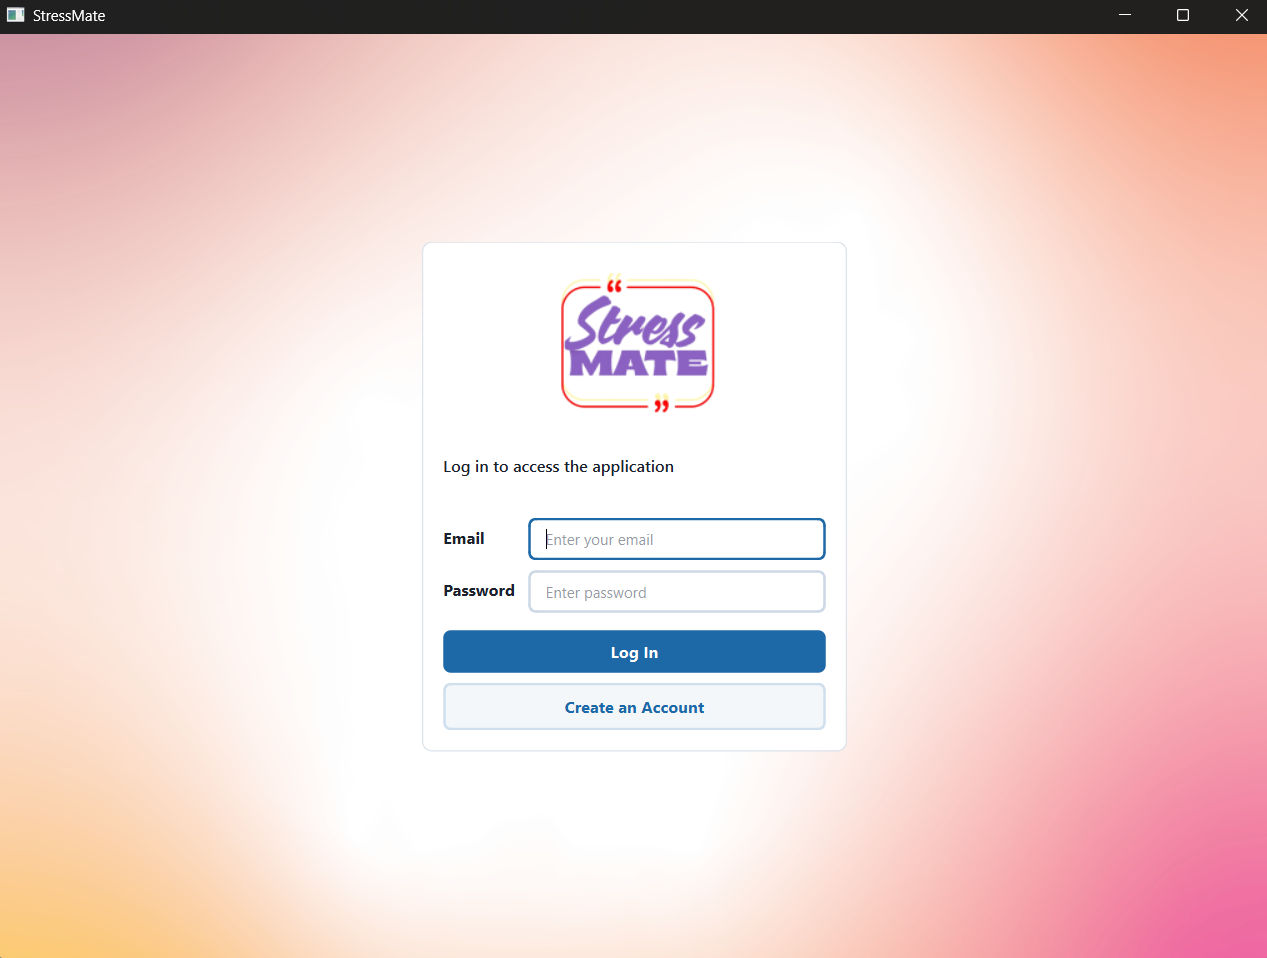
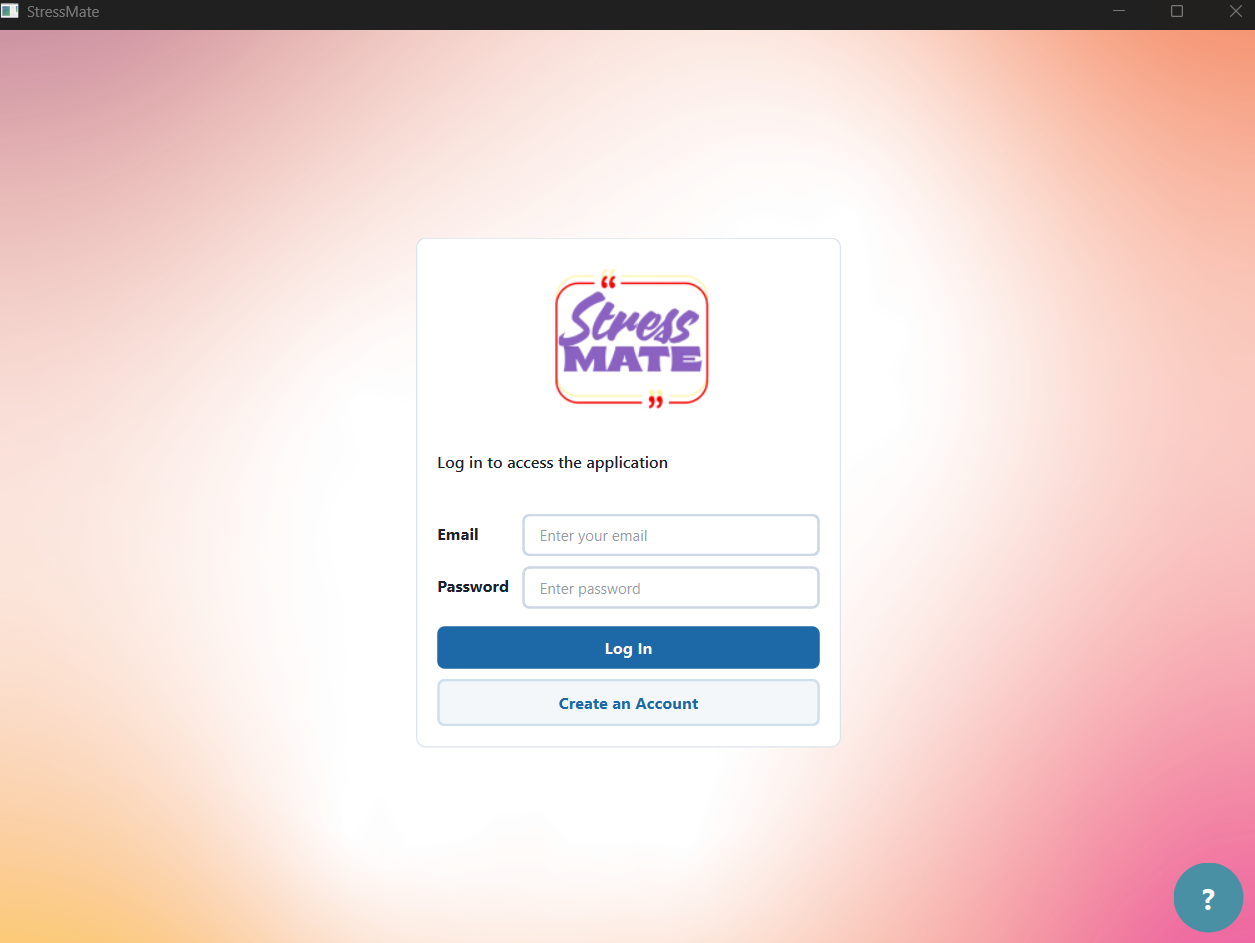
Added FAQ chat box and restored SQL database

diff --git a/README.md b/README.md
@@ -1,89 +1,130 @@
 # StressMate: Stress Tracker
 
-## Project Description
-StressMate is an interactive application designed to help users track their daily stress levels, reflect on their emotions through journaling, and receive actionable coping strategies tailored to their current mental state. 
+## 1. Project Description
+
+StressMate is an interactive application designed to help users track their daily stress levels, reflect on their emotions through journaling, and receive actionable coping strategies tailored to their current mental state.
 
 With the increasing demands of academic and professional life, many individuals experience burnout and anxiety without knowing how to pause or manage it. StressMate provides an organized space to log feelings and offering instant grounding techniques (like the 4-7-8 breathing method or micro-tasks) to intercept extreme stress before it escalates.
 
-## Project Objectives
-* To provide daily stress logging and emotional reflection.
-* To offer actionable advice and micro-tasks dynamically tailored to the user's specific stress tier (Green, Yellow, Orange, Red).
-* To maintain a secure database of user accounts and their emotional history, allowing users to look back and manage their well-being over time.
+## 2. Project Objectives
 
-## Features
-* **Secure User Authentication:** A robust login and registration system featuring strict password validation (minimum length, uppercase, and numerical requirements) and secure SHA-256 password hashing.
-* **Interactive Stress Logging:** Users can categorize their current stress into four color-coded tiers and add personal reflection notes to record their daily mental state.
-* **History Management (CRUD):** Users can seamlessly view, update, and delete their past stress logs in a structured data table.
-* **Coping & Support Resources:** Dedicated informative modules broken down into Physical, Emotional, and Spiritual help, providing specific grounding techniques and actionable advice.
-* **Inspirational Quotes Album:** An interactive image gallery providing users with uplifting quotes and visual encouragement.
+- To provide daily stress logging and emotional reflection.
+- To offer actionable advice and micro-tasks dynamically tailored to the user's specific stress tier (Green, Yellow, Orange, Red).
+- To maintain a secure database of user accounts and their emotional history, allowing users to look back and manage their well-being over time.
+- To answer common questions about stress instantly and point users to real help when they need it.
 
-## Technologies Used
-* **Programming Language:** Python 3
-* **GUI Framework:** PyQt6
-* **Database:** SQLite (via the built-in `sqlite3` module)
-* **Other Important Libraries:**
+## 3. Features
+
+- **Secure User Authentication:** A robust login and registration system featuring strict password validation (minimum length, uppercase, and numerical requirements) and secure SHA-256 password hashing.
+- **Interactive Stress Logging:** Users can categorize their current stress into four color-coded tiers and add personal reflection notes to record their daily mental state.
+- **History Management (CRUD):** Users can seamlessly view, update, and delete their past stress logs in a structured data table.
+- **Coping & Support Resources:** Dedicated informative modules broken down into Physical, Emotional, and Spiritual help, providing specific grounding techniques and actionable advice.
+- **Inspirational Quotes Album:** An interactive image gallery providing users with uplifting quotes and visual encouragement.
+- **Stress FAQ Chat Box:** A floating chat box in the bottom-right corner of every screen. Users tap one of five common questions (signs of stress, quick ways to calm down, whether all stress is bad, stress and sleep, and when to seek professional help) and get an instant answer in a chat-style reply. It uses pre-written answers, so it works offline and needs no AI or internet connection.
+- **"Next Page" Guide Button:** A glowing call-to-action button at the bottom center of the dashboard ("Click here to go to the next page") that shows new users exactly where to click next. It appears only on the dashboard and triggers the same action as the "HOW ARE YOU FEELING TODAY?" button.
+
+## 4. Emergency & Support Resources
+
+> **Important:** StressMate is a self-help tool and **not** a substitute for professional care. If you or someone you know is in immediate danger, call **911** (Philippine national emergency hotline) right away.
+
+These helplines are free and confidential, and are listed as verified on [Find A Helpline](https://findahelpline.com/countries/ph).
+
+| Helpline | Contact | Description |
+| --- | --- | --- |
+| **[NCMH Crisis Hotline](https://findahelpline.com/organizations/ncmh-crisis-hotline)** | **1800-1888-1553** (toll-free) | 24/7 free and confidential phone support from trained counselors, run by the National Center for Mental Health. Open to anyone dealing with stress, anxiety, depression, or thoughts of self-harm. |
+| **[In Touch: Crisis Line](https://www.in-touch.org/)** | **+63 2 8893 7603** | 24/7 free and confidential phone support from trained volunteers. A good place to talk through overwhelming emotions or loneliness. |
+| **[HOPELINE](https://www.facebook.com/HopelinePH/)** | **(02) 8804-4673** | 24/7 free and confidential phone support from counselors for anyone in the Philippines who needs someone to listen. |
+
+More helplines, filtered by topic such as [Stress](https://findahelpline.com/countries/ph/topics/stress), [Anxiety](https://findahelpline.com/countries/ph/topics/anxiety), and [School & work](https://findahelpline.com/countries/ph/topics/school-work), can be found at **[findahelpline.com/countries/ph](https://findahelpline.com/countries/ph)**.
+
+*Hotline details were checked on Find A Helpline in October 2026. Numbers can change, so please confirm on the links above.*
+
+## 5. Technologies Used
+
+- **Programming Language:** Python 3
+- **GUI Framework:** PyQt6
+- **Database:** SQLite (via the built-in `sqlite3` module)
+- **Other Important Libraries:**
   * `hashlib`: For secure password hashing.
   * `re` (RegEx): For validating email formats and strict password rules.
   * `dataclasses`: For structuring clean, object-oriented domain models.
   * `os`: For dynamic and safe asset file path routing.
 
-## Project Structure
-* **`/assets/`**: Stores all static media resources, including the application logo, background images, overview infographics, and the quotes image gallery.
-* **`/database/`**: Contains `database.py`, which encapsulates the SQLite connection logic and automatically executes the schema creation for the `users` and `stress_logs` tables.
-* **`/features/`**: The core directory utilizing a layered Object-Oriented Programming (OOP) architecture. It is divided into two main domains: `authentication` and `tracker`.
-  * Inside each feature, the code is cleanly separated into `model.py` (data structures), `repository.py` (database queries), `service.py` (business logic and validation), and `view.py` (PyQt6 UI rendering).
-* **`main.py`**: The central entry point and orchestrator of the application. It initializes the database, connects the services, and uses a `QStackedWidget` to manage screen transitions.
+## 6. Project Structure
+
+- **`/assets/`**: Stores all static media resources, including the application logo, background images, overview infographics, and the quotes image gallery.
+- **`/database/`**: Contains `database.py`, which encapsulates the SQLite connection logic and automatically executes the schema creation for the `users` and `stress_logs` tables.
+- **`/features/`**: The core directory utilizing a layered Object-Oriented Programming (OOP) architecture. It is divided into four domains: `authentication`, `tracker`, `faq`, and `navigation`.
+  * `authentication` and `tracker` are cleanly separated into `model.py` (data structures), `repository.py` (database queries), `service.py` (business logic and validation), and `view.py` (PyQt6 UI rendering).
+  * `faq/view.py` holds the floating FAQ chat box (`FaqChatBox`) and its `FaqItem` data model. The FAQ is static content, so it needs no database layer.
+  * `navigation/next_button.py` holds the bottom-center `NextPageButton` that guides users to the next page.
+- **`main.py`**: The central entry point and orchestrator of the application. It initializes the database, connects the services, adds the FAQ chat box and the next-page button, and uses a `QStackedWidget` to manage screen transitions.
+
 ## 7. Installation and Setup
-**Dependencies:** 
-* `PyQt6`
+
+**Dependencies:**
+
+- `PyQt6`
 
 **Steps to Run:**
+
 1. Clone the repository to your local machine.
 2. Open a terminal in the project folder.
 3. Install PyQt6 by running: `pip install PyQt6`
 4. Run the application: `python main.py`
 
 ## 8. How to Use the System
+
 1. **Register/Login:** Create a secure account or log in.
-2. **Dashboard:** Click "HOW ARE YOU FEELING TODAY?" to enter the tracker.
+2. **Dashboard:** Click "HOW ARE YOU FEELING TODAY?" (or the glowing **"Click here to go to the next page"** button below it) to enter the tracker.
 3. **Log Stress:** Select your current stress level, add an optional reflection note, and save.
 4. **View History:** Navigate to the History tab to Update or Delete past entries.
 5. **Get Support:** Use the Guides, Quotes, and Help tabs for grounding exercises.
+6. **Ask a Question:** Click the round **?** button in the bottom-right corner, then tap a question to read the answer. Click it again to close the chat.
+7. **Need urgent help?** See [Emergency & Support Resources](#4-emergency--support-resources).
 
 ## 9. OOP Implementation
-* **Important Classes:** `User`, `StressRecord` (Models), `AuthService`, `StressService` (Logic), and `TrackerView` (UI).
-* **Encapsulation:** Database connections and sensitive logic are hidden inside Repository and Service classes, protecting the data from direct manipulation by the UI.
-* **Inheritance:** Our view classes (e.g., `TrackerView`, `AuthView`) inherit from PyQt6’s base `QWidget` and `QMainWindow` classes to acquire window behaviors.
-* **Polymorphism:** We override default PyQt6 initialization methods (like `__init__`) to inject our own custom UI designs and layouts.
+
+- **Important Classes:** `User`, `StressRecord`, `FaqItem` (Models), `AuthService`, `StressService` (Logic), and `TrackerView`, `FaqChatBox`, `NextPageButton` (UI).
+- **Encapsulation:** Database connections and sensitive logic are hidden inside Repository and Service classes, protecting the data from direct manipulation by the UI. The FAQ chat box likewise keeps its question data, chat building, and positioning logic inside its own class.
+- **Inheritance:** Our view classes (e.g., `TrackerView`, `AuthView`, `FaqChatBox`) inherit from PyQt6's base `QWidget` and `QMainWindow` classes to acquire window behaviors. `NextPageButton` inherits from `QPushButton`.
+- **Polymorphism:** We override default PyQt6 methods (like `__init__` and `eventFilter`) to inject our own custom UI designs, layouts, and behaviors.
 
 ## 10. Database
-* **Structure:** A lightweight, relational SQLite database (`stressmate.db`).
-* **Important Tables:**
+
+- **Structure:** A lightweight, relational SQLite database (`stressmate.db`).
+- **Important Tables:**
   * `users` (Stores `id`, `email`, and hashed `password`).
   * `stress_logs` (Stores `id`, `user_id`, `timestamp`, `level_code`, `note`, and `task`).
-* **Major Operations (CRUD):**
+- **Major Operations (CRUD):**
   * **Create:** Registering new users and adding new stress logs.
   * **Read:** Verifying login credentials and fetching user history.
   * **Update:** Editing a previous stress reflection note or level.
   * **Delete:** Removing a stress log from the history table.
 
 ## 11. Screenshots
-* ![Secure Authentication Screen](assets/login_screen.png) - The secure authentication screen.
-* ![Main Stress Logging Dashboard](assets/stress_log.png) - The main stress logging dashboard.
-* ![CRUD Operations Data Table](assets/CRUD_operations.png) - The data table showing CRUD operations.
+
+- ![Secure Authentication Screen](assets/login_screen.png) - The secure authentication screen.
+- ![Main Stress Logging Dashboard](assets/stress_log.png) - The main stress logging dashboard.
+- ![CRUD Operations Data Table](assets/CRUD_operations.png) - The data table showing CRUD operations.
+- ![Dashboard with FAQ button](assets/dashboard.png) - The dashboard with the FAQ chat button and the "next page" guide button.
 
 ## 12. Testing
-* **Test 1: Password Validation**
-  * *Expected:* System rejects passwords under 7 characters or missing uppercase/numbers. 
+
+- **Test 1: Password Validation**
+  * *Expected:* System rejects passwords under 7 characters or missing uppercase/numbers.
   * *Actual:* App successfully blocks registration and pops up a Warning Dialog.
-* **Test 2: Database Retrieval**
+- **Test 2: Database Retrieval**
   * *Expected:* When saving a log, it appears immediately in the History Table.
   * *Actual:* The table dynamically refreshes and shows the new Create operation instantly.
 
 ## 13. Known Issues / Limitations
-* **Local Storage:** The database currently runs locally via SQLite, meaning data is not synced across multiple devices via the cloud.
-* **No Password Reset:** Users cannot currently recover a forgotten password through email verification.
+
+- **Local Storage:** The database currently runs locally via SQLite, meaning data is not synced across multiple devices via the cloud.
+- **No Password Reset:** Users cannot currently recover a forgotten password through email verification.
+- **Static FAQ:** The FAQ chat box only answers its five built-in questions. It does not understand typed questions.
 
 ## 14. Author
-* **Name:** Hannah Galabo
-* **Section:** CS26L - 3581
+
+- **Name:** Hannah Galabo
+- **Section:** CS26L - 3581
